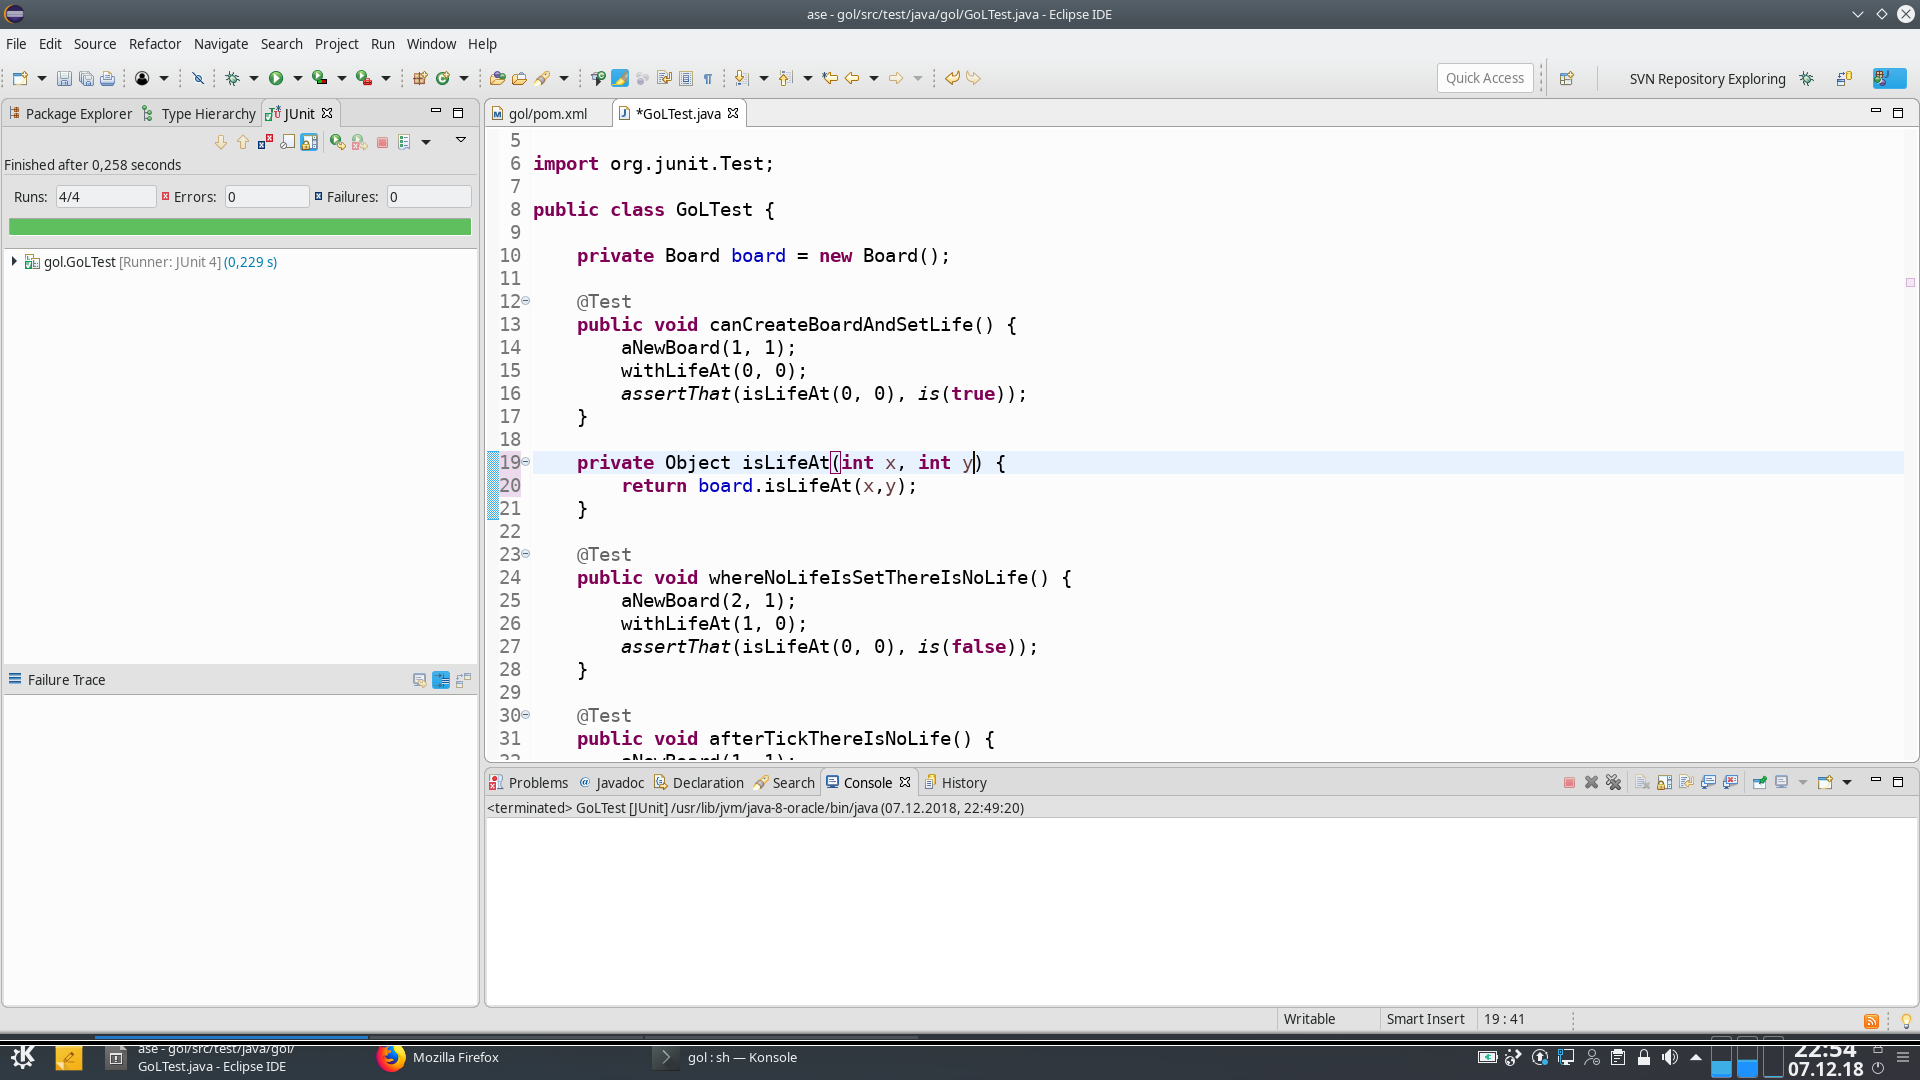
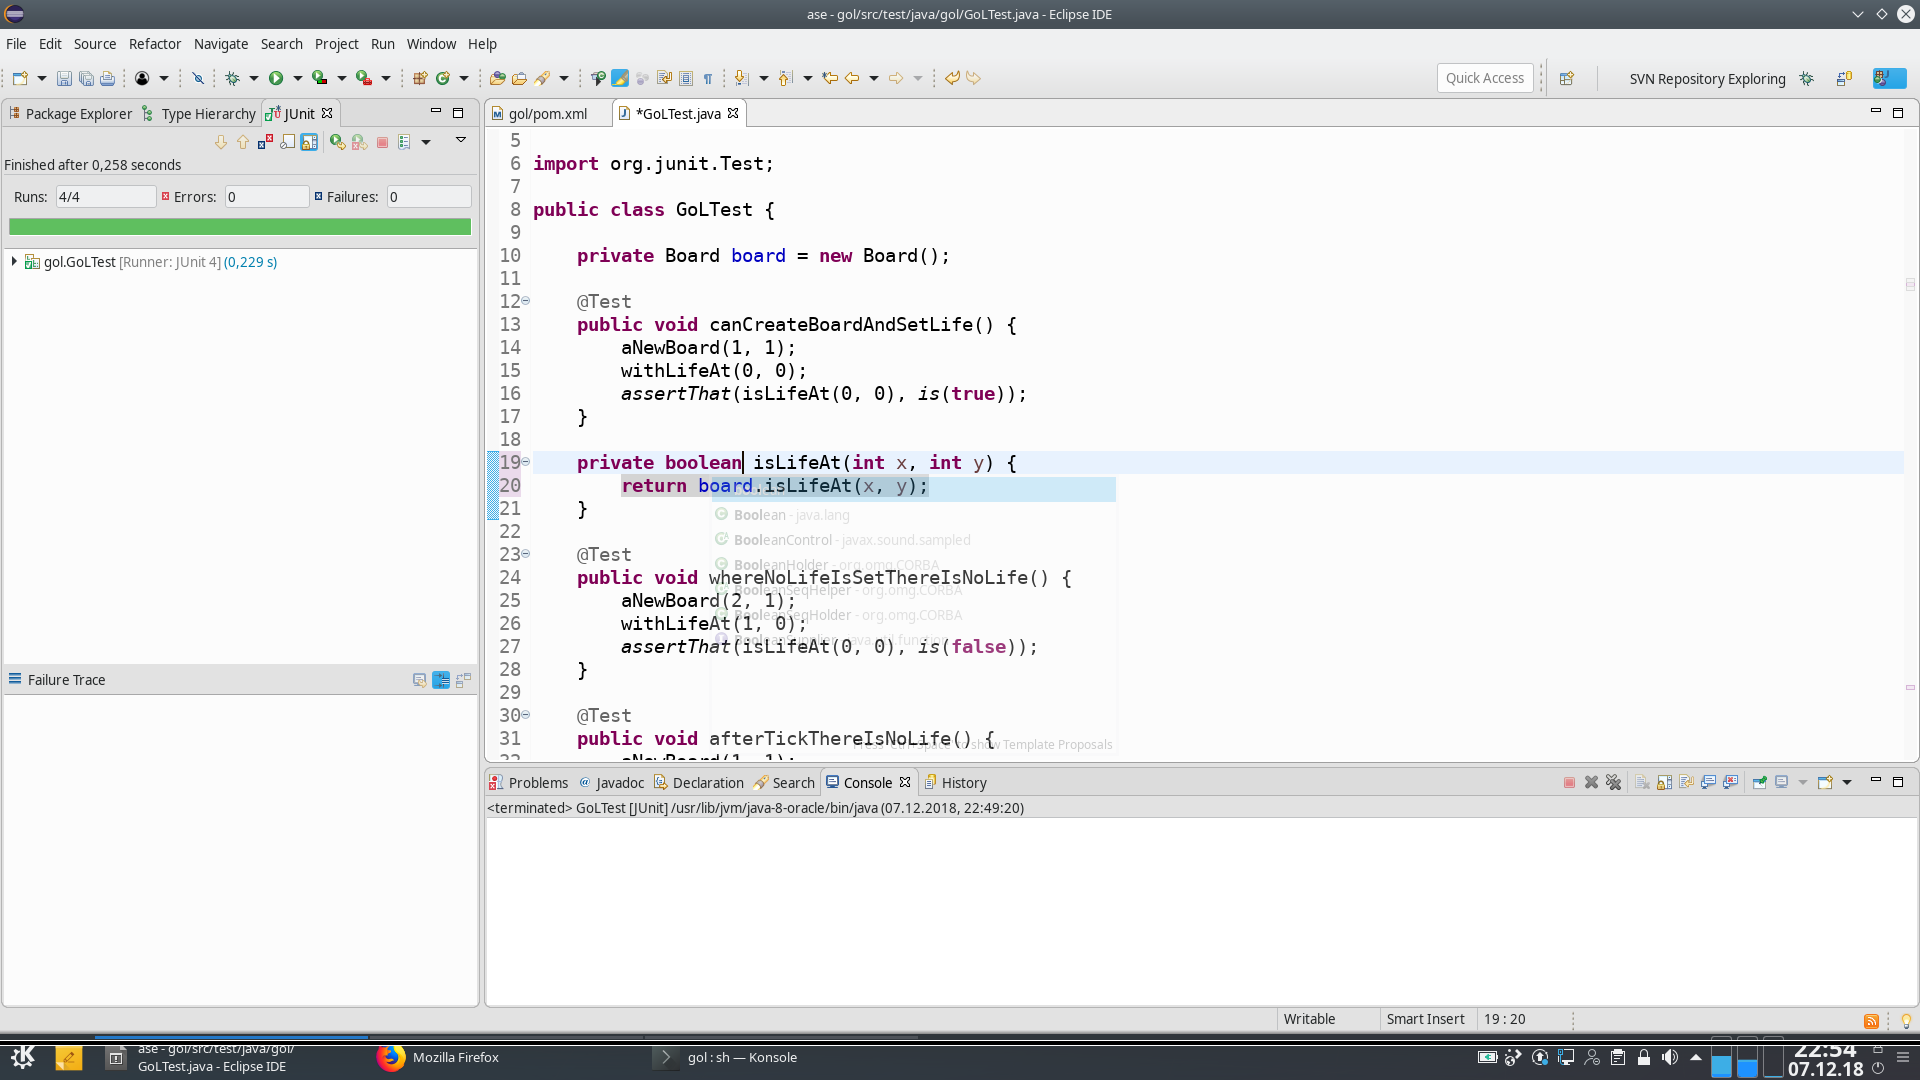
autocommit on change

Changed region(s): [[0.3125, 0.4278, 0.5938, 0.6111], [0.375, 0.6722, 0.5, 0.7028]]

diff --git a/src/test/java/gol/GoLTest.java b/src/test/java/gol/GoLTest.java
@@ -16,8 +16,8 @@ public class GoLTest {
 		assertThat(isLifeAt(0, 0), is(true));
 	}
 
-	private Object isLifeAt(int x, int y) {
-		return board.isLifeAt(x,y);
+	private boolean isLifeAt(int x, int y) {
+		return board.isLifeAt(x, y);
 	}
 
 	@Test
@@ -67,7 +67,7 @@ public class GoLTest {
 	}
 
 	private void withLifeAt(int x, int y) {
-		this.board.setAlive(x,y);
+		this.board.setAlive(x, y);
 	}
 
 	private void aNewBoard(int width, int height) {
